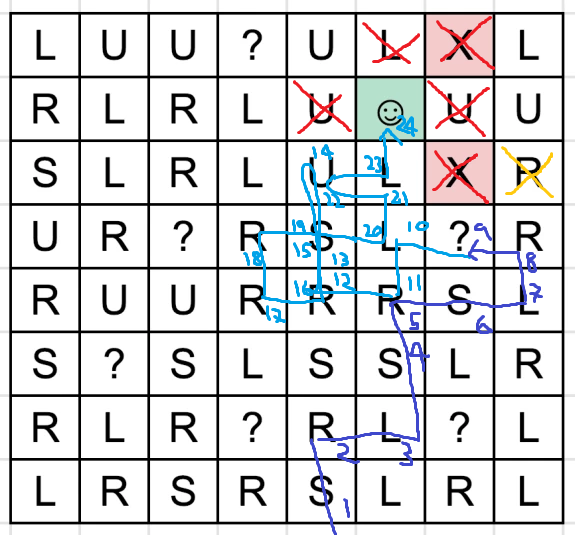
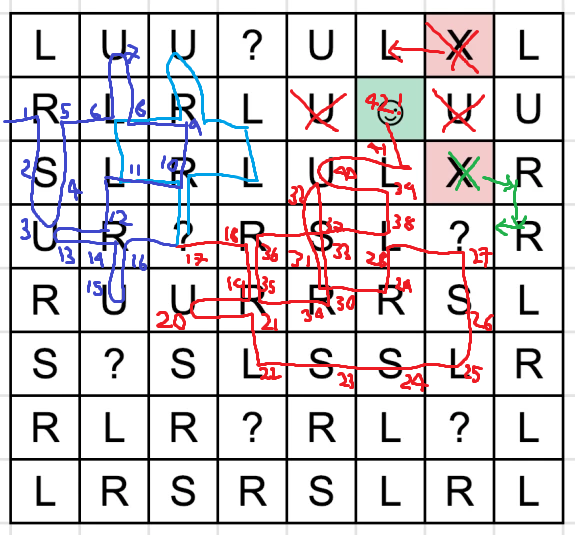
updated riddler answers and deleted rmd

diff --git a/public/post/riddler-1st-feb-2019/index.html b/public/post/riddler-1st-feb-2019/index.html
@@ -454,12 +454,12 @@ combinations &lt;- combinations %&gt;%
 <pre><code>## # A tibble: 6 x 3
 ##   player_choice grifter_choice win_chance
 ##   &lt;fct&gt;         &lt;fct&gt;               &lt;dbl&gt;
-## 1 black         blue                0.296
-## 2 black         red                 0.707
+## 1 black         blue                0.299
+## 2 black         red                 0.701
 ## 3 blue          black               0.704
-## 4 blue          red                 0.298
-## 5 red           black               0.294
-## 6 red           blue                0.695</code></pre>
+## 4 blue          red                 0.306
+## 5 red           black               0.295
+## 6 red           blue                0.709</code></pre>
 <p>So whatever deck you pick you have a 70% chance of losing providing the grifter has memorized the winning counter-deck. What an unfortunate state of affairs.</p>
 <p>Giving we’ve written the C++ code (which I didn’t use in the end to run my model), it’s worth seeing what the speed advantage would have been. If you’re eagle-eyed you might notice that play_game and play_gameC have a slightly different way to defining the decks (the R function selects based on name in the first line) so I also wrote a play_gameR function that functions the same as the C++ one for a fairer comparison.</p>
 <p>We can benchmark these using the microbenchmark</p>
@@ -475,9 +475,9 @@ microbenchmark(
   times = 10000
 )</code></pre>
 <pre><code>## Unit: microseconds
-##                      expr   min     lq      mean median     uq      max
-##  play_gameR(deck1, deck2) 8.752 10.212 15.473546 10.941 14.587 8018.404
-##  play_gameC(deck1, deck2) 1.094  1.460  2.519572  1.824  2.553  878.495
+##                      expr   min    lq      mean median     uq      max
+##  play_gameR(deck1, deck2) 8.388 9.847 14.202272 10.576 13.858 7745.265
+##  play_gameC(deck1, deck2) 1.094 1.459  2.333585  1.824  2.553  815.771
 ##  neval
 ##  10000
 ##  10000</code></pre>
@@ -486,7 +486,7 @@ microbenchmark(
 </div>
 <div id="riddler-express---can-you-escape-a-maze-without-walls" class="section level1">
 <h1>Riddler Express - Can You Escape a Maze Without Walls</h1>
-<p>I also completed the riddler express which involves a maze. Obviously look away if you don’t want it spoiled, but the key is to work backwards and see there’s 1 clear fastest path. You can complete the maze in 24 moves.</p>
+<p>I also completed the riddler express which involves a maze. Obviously look away if you don’t want it spoiled, but the key is to work backwards and see there’s 1 clear fastest path. You can complete the maze in 42 moves. I’ve tried to show my messy working</p>
 <p><img src="/img/riddler_maze.png" /><!-- --></p>
 </div>
 

diff --git a/content/post/2019-02-03-riddler_1st_feb_2019.html b/content/post/2019-02-03-riddler_1st_feb_2019.html
@@ -139,12 +139,12 @@ combinations &lt;- combinations %&gt;%
 <pre><code>## # A tibble: 6 x 3
 ##   player_choice grifter_choice win_chance
 ##   &lt;fct&gt;         &lt;fct&gt;               &lt;dbl&gt;
-## 1 black         blue                0.296
-## 2 black         red                 0.707
+## 1 black         blue                0.299
+## 2 black         red                 0.701
 ## 3 blue          black               0.704
-## 4 blue          red                 0.298
-## 5 red           black               0.294
-## 6 red           blue                0.695</code></pre>
+## 4 blue          red                 0.306
+## 5 red           black               0.295
+## 6 red           blue                0.709</code></pre>
 <p>So whatever deck you pick you have a 70% chance of losing providing the grifter has memorized the winning counter-deck. What an unfortunate state of affairs.</p>
 <p>Giving we’ve written the C++ code (which I didn’t use in the end to run my model), it’s worth seeing what the speed advantage would have been. If you’re eagle-eyed you might notice that play_game and play_gameC have a slightly different way to defining the decks (the R function selects based on name in the first line) so I also wrote a play_gameR function that functions the same as the C++ one for a fairer comparison.</p>
 <p>We can benchmark these using the microbenchmark</p>
@@ -160,9 +160,9 @@ microbenchmark(
   times = 10000
 )</code></pre>
 <pre><code>## Unit: microseconds
-##                      expr   min     lq      mean median     uq      max
-##  play_gameR(deck1, deck2) 8.752 10.212 15.473546 10.941 14.587 8018.404
-##  play_gameC(deck1, deck2) 1.094  1.460  2.519572  1.824  2.553  878.495
+##                      expr   min    lq      mean median     uq      max
+##  play_gameR(deck1, deck2) 8.388 9.847 14.202272 10.576 13.858 7745.265
+##  play_gameC(deck1, deck2) 1.094 1.459  2.333585  1.824  2.553  815.771
 ##  neval
 ##  10000
 ##  10000</code></pre>
@@ -171,6 +171,6 @@ microbenchmark(
 </div>
 <div id="riddler-express---can-you-escape-a-maze-without-walls" class="section level1">
 <h1>Riddler Express - Can You Escape a Maze Without Walls</h1>
-<p>I also completed the riddler express which involves a maze. Obviously look away if you don’t want it spoiled, but the key is to work backwards and see there’s 1 clear fastest path. You can complete the maze in 24 moves.</p>
+<p>I also completed the riddler express which involves a maze. Obviously look away if you don’t want it spoiled, but the key is to work backwards and see there’s 1 clear fastest path. You can complete the maze in 42 moves. I’ve tried to show my messy working</p>
 <p><img src="/img/riddler_maze.png" /><!-- --></p>
 </div>
